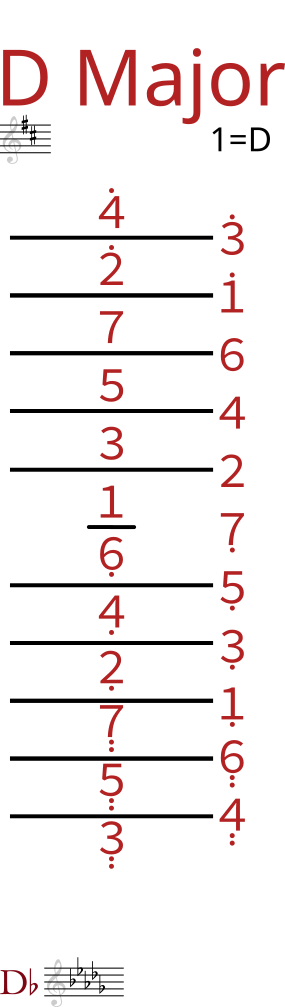
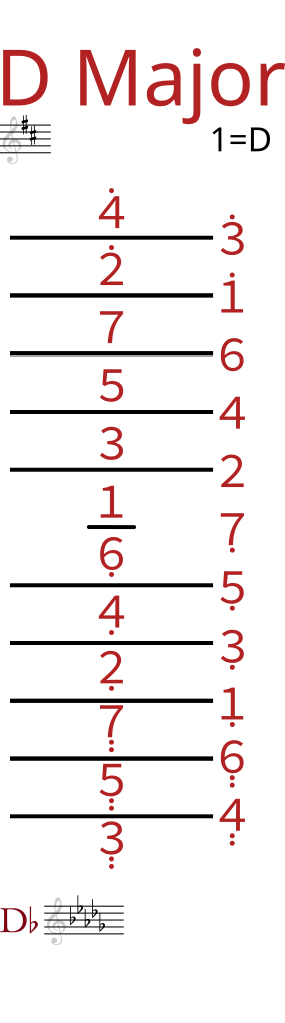
Update images and spacing.

diff --git a/art/jianpu-keysig.md b/art/jianpu-keysig.md
@@ -12,6 +12,7 @@ date: 2023-01-03
 
 ----
 
+<div style="display: flex; flex-wrap: wrap; justify-content: space-around;">
 
 <img src="jianpu/CMajor.png">
 <img src="jianpu/DMajor.png">
@@ -21,5 +22,5 @@ date: 2023-01-03
 <img src="jianpu/AMajor.png">
 <img src="jianpu/BMajor.png">
 
-
+</div>
 
